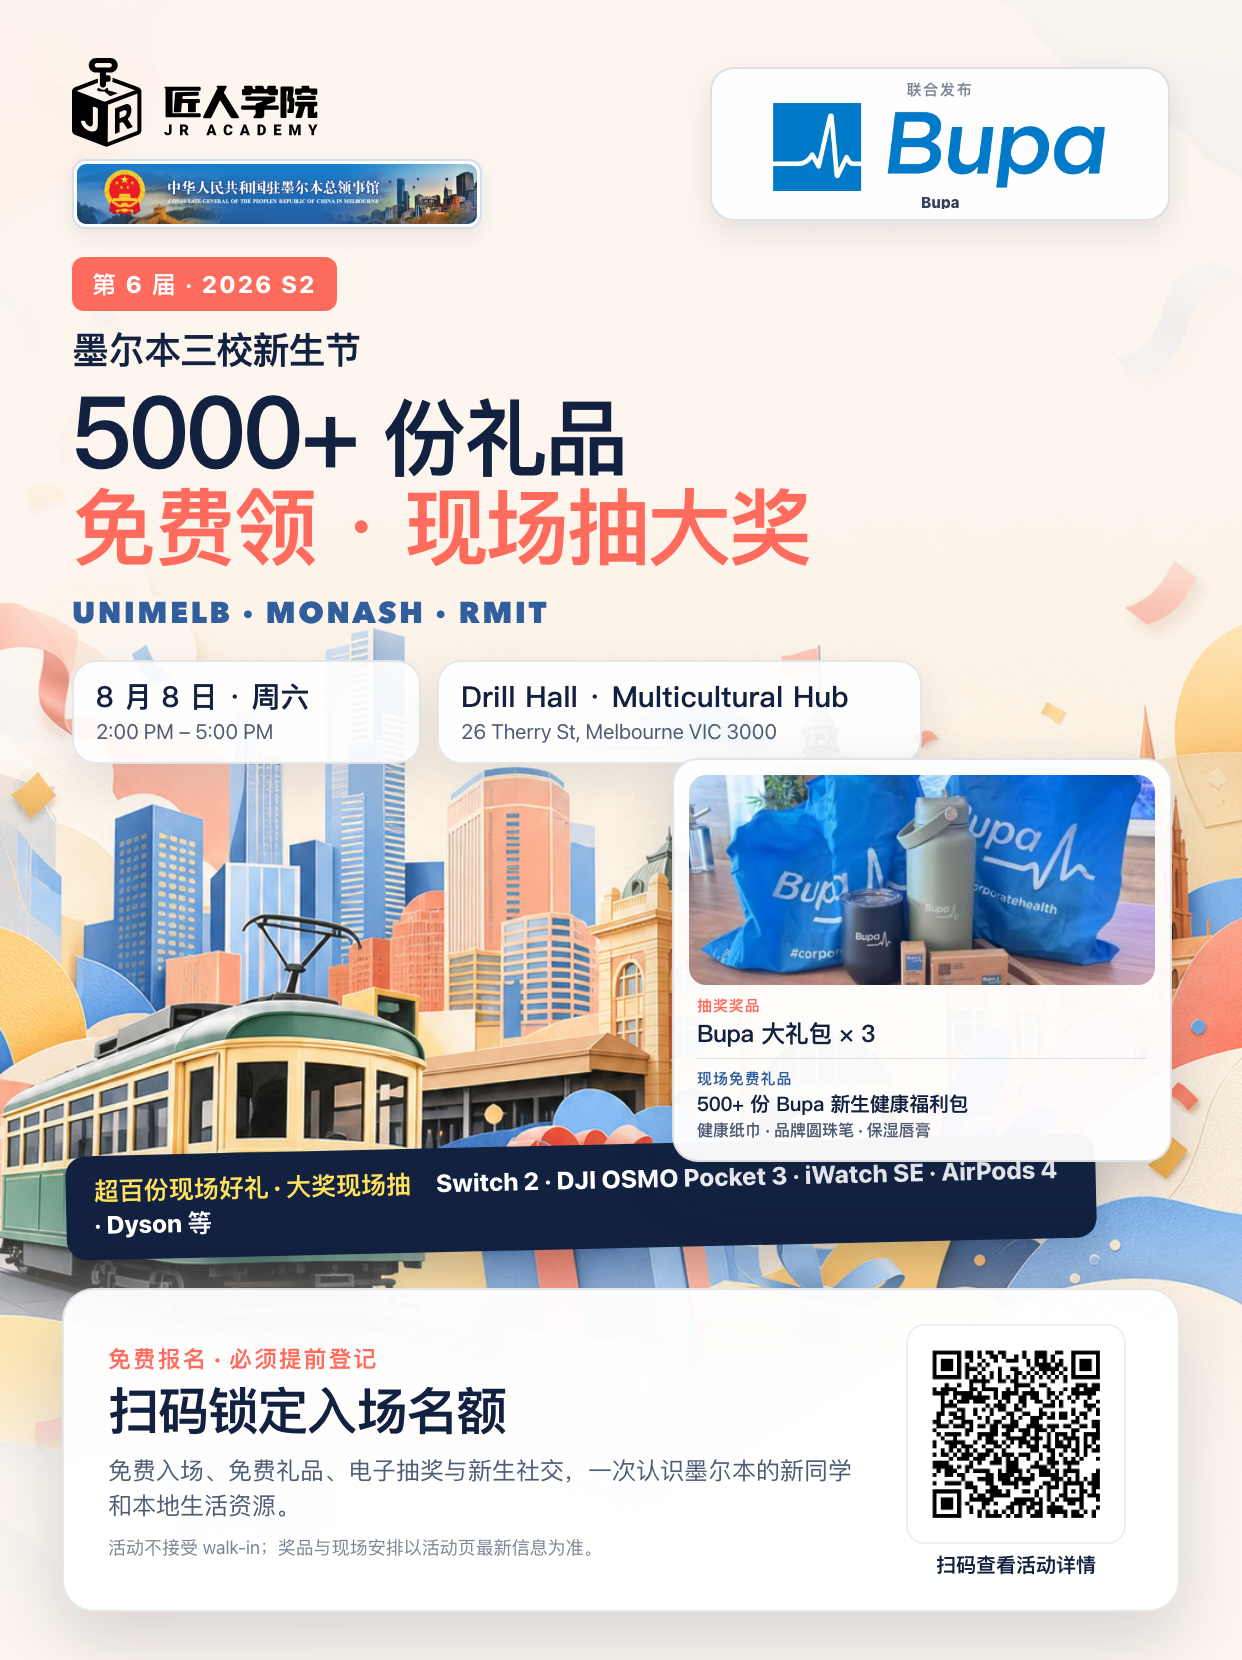
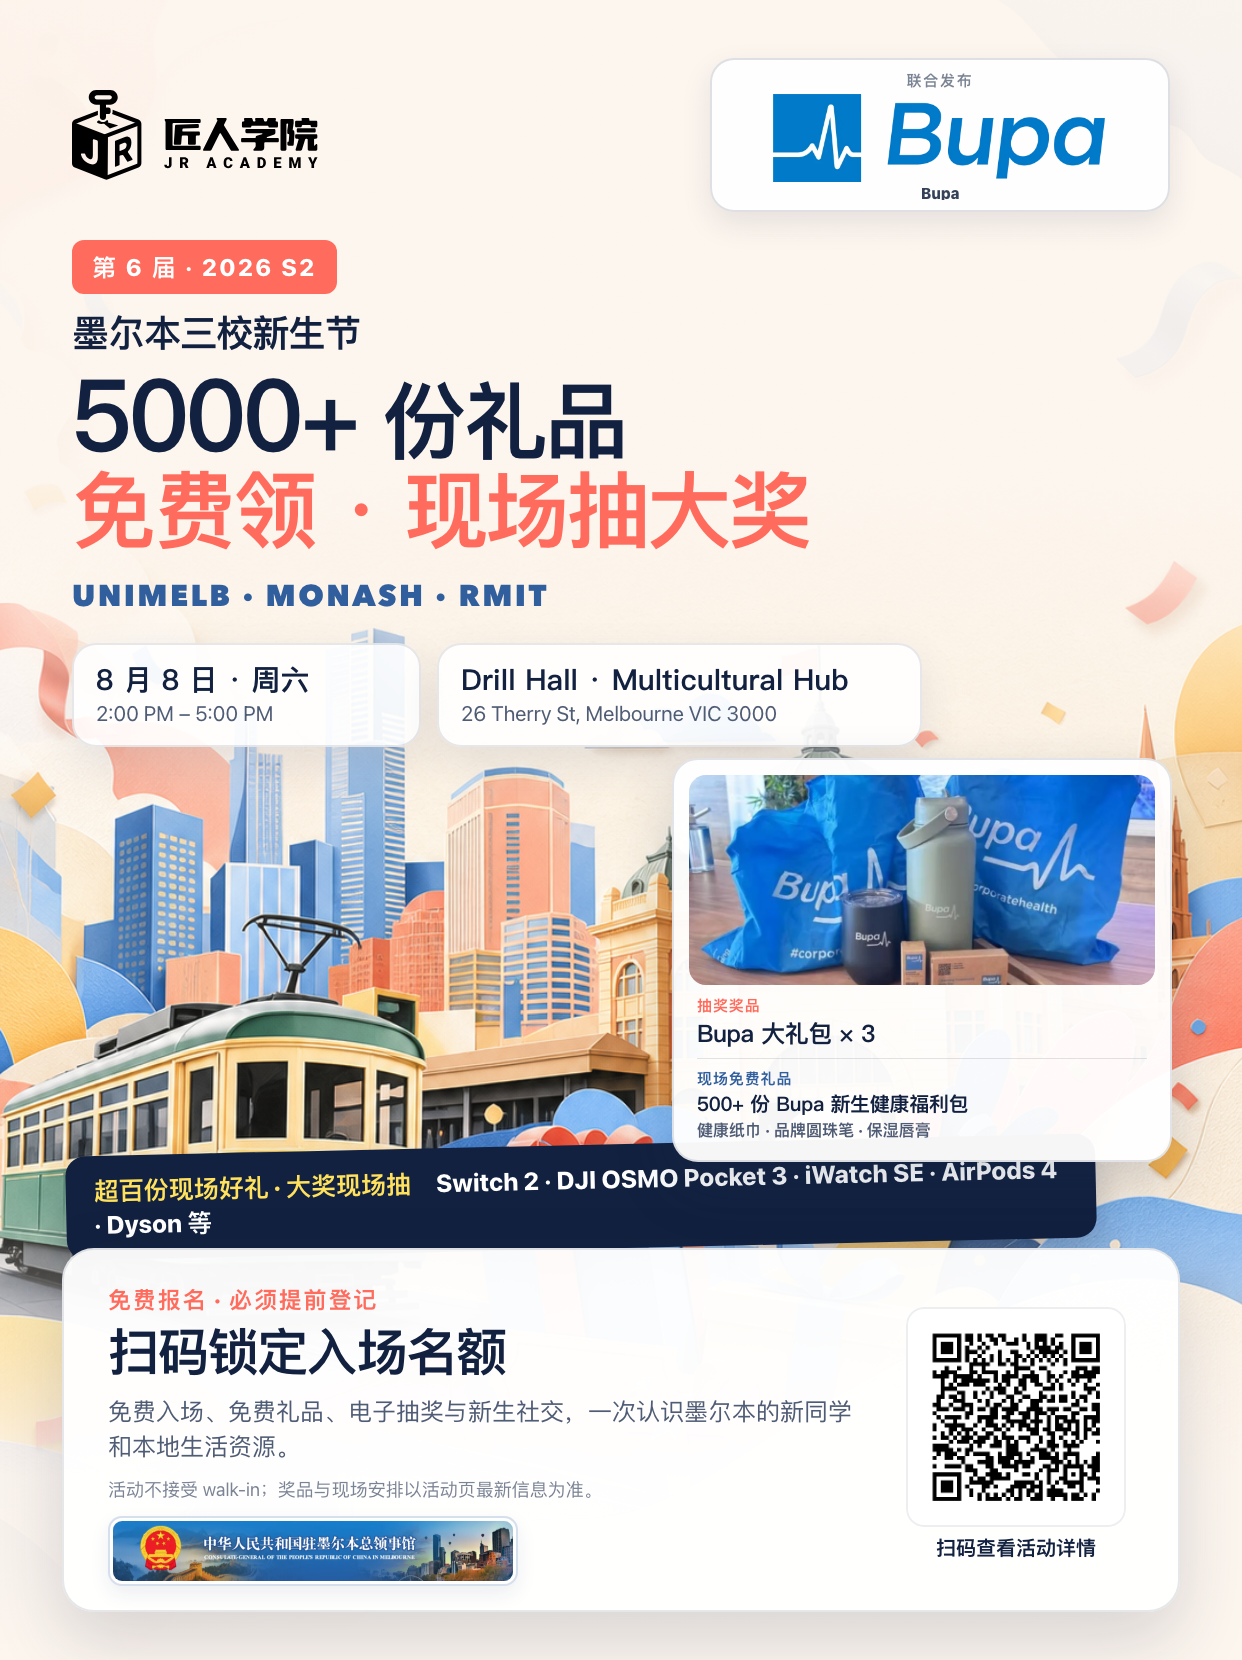
design: add image-model Bupa partner poster

diff --git a/melbourne-2026-s2/partner-promo-poster/image-model-bupa.html b/melbourne-2026-s2/partner-promo-poster/image-model-bupa.html
@@ -1,0 +1,192 @@
+<!doctype html>
+<html lang="zh-CN">
+  <head>
+    <meta charset="utf-8" />
+    <meta name="viewport" content="width=1242, initial-scale=1" />
+    <title>Bupa × 墨尔本三校新生节</title>
+    <style>
+      * { box-sizing: border-box; }
+      html, body { width: 1242px; height: 1660px; margin: 0; overflow: hidden; }
+      body {
+        color: #10264b;
+        font-family: "SF Pro Text", "PingFang SC", "Hiragino Sans GB", sans-serif;
+      }
+      .poster { position: relative; width: 1242px; height: 1660px; overflow: hidden; }
+      .art { position: absolute; inset: 0; width: 100%; height: 100%; object-fit: cover; }
+      .top-wash {
+        position: absolute;
+        inset: 0 0 auto 0;
+        height: 720px;
+        background: linear-gradient(90deg, rgba(255,249,239,.92) 0%, rgba(255,249,239,.72) 46%, rgba(255,249,239,0) 74%);
+      }
+      .jr-logo { position: absolute; top: 54px; left: 72px; width: 252px; }
+      .partner-card {
+        position: absolute;
+        top: 50px;
+        right: 66px;
+        width: 520px;
+        height: 188px;
+        display: flex;
+        align-items: center;
+        justify-content: center;
+        border: 2px solid rgba(20,48,89,.12);
+        border-radius: 28px;
+        background: rgba(255,255,255,.94);
+        box-shadow: 0 22px 54px rgba(39,55,84,.15);
+      }
+      .partner-card img { width: 454px; height: 142px; object-fit: contain; }
+      .edition {
+        position: absolute;
+        top: 182px;
+        left: 72px;
+        padding: 12px 22px;
+        border-radius: 14px;
+        background: #ff6557;
+        color: white;
+        font-size: 25px;
+        font-weight: 800;
+        letter-spacing: .08em;
+      }
+      .event-name {
+        position: absolute;
+        top: 252px;
+        left: 72px;
+        font-size: 36px;
+        font-weight: 800;
+      }
+      .headline {
+        position: absolute;
+        top: 300px;
+        left: 68px;
+        margin: 0;
+        font-family: "SF Pro Display", "PingFang SC", sans-serif;
+        font-size: 72px;
+        font-weight: 800;
+        line-height: 1.08;
+        letter-spacing: -.035em;
+      }
+      .headline span { display: block; color: #ff5f50; }
+      .benefit-pill {
+        position: absolute;
+        top: 472px;
+        left: 72px;
+        padding: 10px 18px;
+        border: 2px solid rgba(255,95,80,.18);
+        border-radius: 999px;
+        background: rgba(255,255,255,.88);
+        color: #ff5f50;
+        font-size: 25px;
+        font-weight: 850;
+      }
+      .schools {
+        position: absolute;
+        top: 532px;
+        left: 72px;
+        color: #2f68a7;
+        font-family: "Avenir Next", sans-serif;
+        font-size: 29px;
+        font-weight: 850;
+        letter-spacing: .09em;
+      }
+      .facts { position: absolute; top: 582px; left: 72px; display: grid; gap: 14px; }
+      .fact { display: grid; grid-template-columns: 54px auto; gap: 14px; align-items: center; }
+      .fact-icon {
+        width: 54px;
+        height: 54px;
+        display: grid;
+        place-items: center;
+        border-radius: 50%;
+        background: rgba(255,225,202,.86);
+        color: #ff6557;
+        font-size: 25px;
+        font-weight: 900;
+      }
+      .fact strong { display: block; font-size: 27px; line-height: 1.18; }
+      .fact span { display: block; margin-top: 3px; color: #52647d; font-size: 20px; }
+      .gift-proof {
+        position: absolute;
+        left: 76px;
+        top: 746px;
+        padding: 12px 18px;
+        border-radius: 16px;
+        background: rgba(255,255,255,.91);
+        box-shadow: 0 14px 32px rgba(32,49,79,.14);
+        font-size: 21px;
+        font-weight: 800;
+      }
+      .gift-proof b { color: #ff5f50; }
+      .footer-copy { position: absolute; left: 98px; top: 1283px; width: 655px; }
+      .cta-kicker { color: #ff5f50; font-size: 24px; font-weight: 900; letter-spacing: .08em; }
+      .cta-title { margin-top: 7px; font-size: 48px; font-weight: 800; letter-spacing: -.025em; }
+      .fineprint { margin-top: 7px; color: #718096; font-size: 17px; }
+      .support-label {
+        position: absolute;
+        top: 1438px;
+        left: 98px;
+        width: 630px;
+        color: #53637b;
+        font-size: 17px;
+        font-weight: 800;
+        text-align: center;
+      }
+      .consulate {
+        position: absolute;
+        top: 1467px;
+        left: 98px;
+        width: 630px;
+        height: 108px;
+        padding: 4px;
+        border: 2px solid rgba(49,95,158,.16);
+        border-radius: 16px;
+        background: white;
+        object-fit: cover;
+      }
+      .qr {
+        position: absolute;
+        top: 1320px;
+        right: 104px;
+        width: 220px;
+        height: 220px;
+        padding: 10px;
+        border-radius: 18px;
+        background: white;
+      }
+      .qr-label {
+        position: absolute;
+        top: 1544px;
+        right: 92px;
+        width: 244px;
+        font-size: 19px;
+        font-weight: 850;
+        text-align: center;
+      }
+    </style>
+  </head>
+  <body>
+    <main class="poster">
+      <img class="art" src="assets/generated/bupa-key-visual.png" alt="" />
+      <div class="top-wash"></div>
+      <img class="jr-logo" src="assets/jr-academy-logo-black.svg" alt="JR Academy" />
+      <div class="partner-card"><img src="assets/partners/bupa.webp" alt="Bupa" /></div>
+      <div class="edition">第 6 届 · 2026 S2</div>
+      <div class="event-name">墨尔本三校新生节</div>
+      <h1 class="headline">500+ 新生福利包<span>Bupa 大礼包 ×3</span></h1>
+      <div class="benefit-pill">免费领 · 现场抽大奖</div>
+      <div class="schools">UNIMELB · MONASH · RMIT</div>
+      <div class="facts">
+        <div class="fact"><div class="fact-icon">日</div><div><strong>8 月 8 日 · 周六</strong><span>2:00 PM – 5:00 PM</span></div></div>
+        <div class="fact"><div class="fact-icon">地</div><div><strong>Drill Hall · Multicultural Hub</strong><span>26 Therry St, Melbourne VIC 3000</span></div></div>
+      </div>
+      <div class="gift-proof"><b>现场礼品：</b>健康纸巾 · 品牌圆珠笔 · 保湿唇膏等</div>
+      <div class="footer-copy">
+        <div class="cta-kicker">免费报名 · 必须提前登记</div>
+        <div class="cta-title">扫码锁定入场名额</div>
+        <div class="fineprint">奖品与现场安排以活动页最新信息为准</div>
+      </div>
+      <div class="support-label">支持单位</div>
+      <img class="consulate" src="assets/china-consulate-melbourne.webp" alt="中华人民共和国驻墨尔本总领事馆" />
+      <img class="qr" src="assets/register-qr.png" alt="活动报名二维码" />
+      <div class="qr-label">扫码查看活动详情</div>
+    </main>
+  </body>
+</html>

diff --git a/melbourne-2026-s2/partner-promo-poster/index.html b/melbourne-2026-s2/partner-promo-poster/index.html
@@ -347,7 +347,7 @@
         left: 62px;
         right: 62px;
         bottom: 48px;
-        height: 324px;
+        height: 364px;
         display: grid;
         grid-template-columns: 1fr 252px;
         gap: 34px;
@@ -388,6 +388,10 @@
         color: #7b8495;
       }
 
+      .footer-card .consulate-support {
+        margin-top: 14px;
+      }
+
       .qr-wrap {
         text-align: center;
       }
@@ -422,7 +426,6 @@
         <div class="brand-row">
           <div class="host-brand">
             <img class="logo" src="assets/jr-academy-logo-black.svg" alt="匠人学院 JR Academy" />
-            <img class="consulate-support" src="assets/china-consulate-melbourne.webp" alt="中华人民共和国驻墨尔本总领事馆支持" />
           </div>
           <div class="partner-card" id="partner-card">
             <div class="partner-default">合作伙伴联合传播</div>
@@ -476,6 +479,7 @@
           <div class="cta-title">扫码锁定入场名额</div>
           <div class="cta-copy">免费入场、免费礼品、电子抽奖与新生社交，一次认识墨尔本的新同学和本地生活资源。</div>
           <div class="fineprint">活动不接受 walk-in；奖品与现场安排以活动页最新信息为准。</div>
+          <img class="consulate-support" src="assets/china-consulate-melbourne.webp" alt="中华人民共和国驻墨尔本总领事馆支持" />
         </div>
         <div class="qr-wrap">
           <img class="qr" src="assets/register-qr.png" alt="活动报名二维码" />

diff --git a/melbourne-2026-s2/partner-promo-poster/DESIGN.md b/melbourne-2026-s2/partner-promo-poster/DESIGN.md
@@ -31,14 +31,14 @@
 
 从上到下保持以下顺序：
 
-1. JR Academy Logo、中国驻墨尔本总领事馆支持图片与企业联名区
+1. JR Academy Logo 与企业联名区
 2. 届次、正式活动名
 3. 核心标题：礼品数量 + “免费领 · 现场抽大奖”
 4. 学校范围
 5. 日期与地点卡
 6. 企业礼品/抽奖卡（仅礼品版）
 7. 全场抽奖奖品横条
-8. 免费报名 CTA 与网站二维码
+8. 免费报名 CTA、中国驻墨尔本总领事馆支持图片与网站二维码
 
 不要把企业介绍、长免责声明或完整礼品目录塞进海报。详情由二维码承接。
 
@@ -68,7 +68,7 @@
 - 保持 Logo 原始比例，以 `object-fit: contain` 呈现，不裁切、不拉伸、不改企业品牌色。
 - 礼品图片必须与实际条目对应，并优先使用足够大的主视觉区域；没有实物图时可只显示已核实文字，不用无关占位图。
 - 图片卡圆角统一，避免厚边框和过度装饰抢走奖品信息。
-- 中国驻墨尔本总领事馆支持图片固定使用当前活动 Notion 归档的官方横幅 `assets/china-consulate-melbourne.webp`，放在 JR Academy Logo 下方；不得改写机构名称、重画徽标或替换为搜索图片。
+- 中国驻墨尔本总领事馆支持图片固定使用当前活动 Notion 归档的官方横幅 `assets/china-consulate-melbourne.webp`，放在最底部报名卡内、二维码左侧；不得放回顶部，不得改写机构名称、重画徽标或替换为搜索图片。
 
 ## 7. 文案规则
 
@@ -103,3 +103,15 @@
 - 不把现场派发礼包冒充抽奖奖品。
 - 不添加未经活动数据源确认的价值、数量、品牌归属或优惠。
 - 不手工覆盖批量导出的成品；修改模板或数据后重新渲染。
+
+## 11. 图片模型商业主视觉版
+
+企业需要更强社媒传播质感时，礼品版优先使用“图片模型底图 + 精确 HTML 品牌层”的商业主视觉方案。参考实现为 `image-model-bupa.html`，成品为 `image-model-bupa.png`。
+
+- 图片模型只负责墨尔本城市氛围、礼盒、丝带、展台和经核实的礼品视觉，不生成任何可读文字、Logo、政府徽标、二维码或品牌名称。
+- 每家企业使用自己的已核实礼品照片作为图像参考；没有真实礼品图时不得让模型虚构具体产品。
+- 画面保持暖奶油、珊瑚与信息蓝，使用 Flinders Street Station、墨尔本电车和城市天际线建立本地识别。
+- 顶部左侧为 JR Academy 与活动标题留白，顶部右侧为企业大 Logo 卡留白。
+- 中下部用礼品陈列台形成主视觉，礼品必须明显大于普通信息卡中的缩略图。
+- 底部约 `360 px` 固定为报名卡：中国驻墨尔本总领事馆官方横幅在二维码左侧，真实二维码在右侧。
+- 最终活动名称、日期、地点、企业 Logo、礼品数量、领事馆横幅与二维码全部通过 HTML/真实素材叠加，禁止依赖模型生成这些精确信息。
